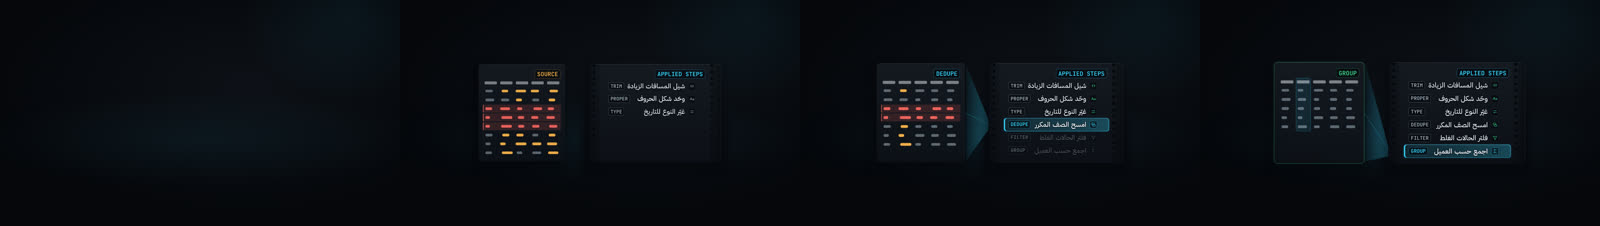
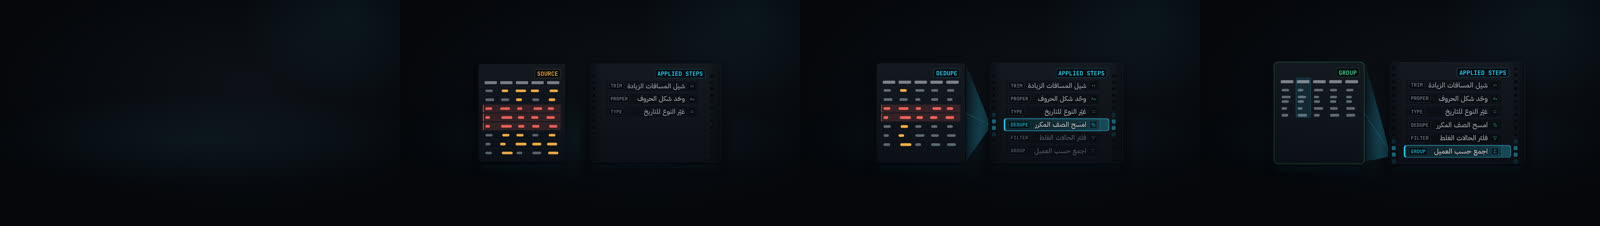
P7 dom-b: AppliedSteps round-2 polish (film frame cells, glowing sprockets, bar starts on step 0, folded group rows, ok sweep, floor reflection and motes; snap PASS det 0 qa 0, baselines pending-critic; perf lite 0.087 / standard 0.099 / hero 0.101 box s/frame; Arabic QA pass 6/6)
Claude-Session: https://claude.ai/code/session_01VrU9wxU8GmuhdhWAAHnnQ8

diff --git a/studio/src/components/AppliedSteps/AppliedSteps.tsx b/studio/src/components/AppliedSteps/AppliedSteps.tsx
@@ -96,7 +96,9 @@ export const AppliedStepsView: React.FC<DcProps<Props>> = ({props, ctx}) => {
   const gap = wide ? Math.round(box.w * 0.1) : 0;
   const prevW = wide ? box.w - stripW - gap : 0;
   const size = n <= 5 ? SIZE.sub : n <= 8 ? SIZE.body : SIZE.label;
-  const k = n <= 7 ? 1.9 : n <= 9 ? 1.65 : 1.45; // row pitch / font size (proportional, so the fit is exact)
+  // row pitch / font size: the base pitch, grown to fill the slot height when the slot is taller (proportional, so the fit stays exact)
+  const k0 = n <= 7 ? 1.9 : n <= 9 ? 1.65 : 1.45;
+  const k = Math.max(k0, Math.min(2.7, (box.h - 2 * PAD_Y - HEAD_H - 8) / (n * size)));
   const rail = 52;
   const padX = 22;
   const key = props.steps.map((s) => `${s.kind ?? ''}:${s.label}`).join('|');
@@ -123,6 +125,7 @@ export const AppliedStepsView: React.FC<DcProps<Props>> = ({props, ctx}) => {
   }
   const started = sels.length > 0 && selQ > 0;
   const stepQ = (i: number) => (sels.length === 0 ? 1 : clamp01(selY - i + 1)); // how far step i has cleaned the table
+  const selB = Math.max(0, selY); // the lit bar and the beam never leave the first frame upward (they start on step 0)
   const near = (i: number) => clamp01(1 - Math.abs(selY - i));
   const nearest = Math.round(clamp01((selY + 0.0001) / Math.max(1, n - 1)) * (n - 1));
 
@@ -151,10 +154,12 @@ export const AppliedStepsView: React.FC<DcProps<Props>> = ({props, ctx}) => {
       ci++;
     }
   });
+  // a group step merges row pairs (their height folds) instead of only highlighting a column
+  const groupI = kinds.indexOf('group');
   const rowF: number[] = []; // height factor per row (collapses when its step is applied)
   for (let r = 0; r < R; r++) {
     const o = rowOwner.get(r);
-    rowF.push(o === undefined ? 1 : 1 - ease.camera(stepQ(o)));
+    rowF.push(o !== undefined ? 1 - ease.camera(stepQ(o)) : groupI >= 0 && r % 2 === 1 ? 1 - 0.5 * ease.camera(stepQ(groupI)) : 1);
   }
   const rowY: number[] = [];
   let acc = hdrH;
@@ -164,6 +169,9 @@ export const AppliedStepsView: React.FC<DcProps<Props>> = ({props, ctx}) => {
   }
   const allQ = sels.length === 0 ? 1 : Math.min(...props.steps.map((_, i) => stepQ(i)));
   const cleanTone = clamp01((allQ - 0.0) * 1) * (started || sels.length === 0 ? 1 : 0);
+  // the "clean" payoff: an ok-green sweep crosses the table once the last step has landed (RV1 from the select anchor)
+  const lastSel = sels.length ? sels[sels.length - 1] : undefined;
+  const sweepQ = lastSel && Math.min(n - 1, lastSel.props.index as number) >= n - 1 ? progN(ctx, lastSel.at + morph, Math.round(morph * 1.6), (x) => x) : 0;
   const pvKind = !started ? 'SOURCE' : props.steps[nearest].kind ?? 'STEP';
   const cell = (c: number, r: number, rowSrc: number) => {
     const w = 0.42 + 0.46 * random(`as:w:${c}:${rowSrc}`);
@@ -182,7 +190,7 @@ export const AppliedStepsView: React.FC<DcProps<Props>> = ({props, ctx}) => {
   // ---------- geometry of the two plates (box-local) ----------
   const stripX = rtl ? box.w - stripW : 0;
   const prevX = rtl ? 0 : box.w - prevW;
-  const barTop = top + 1 + PAD_Y + HEAD_H + 4 + selY * rowH; // list container starts at +4 (the fit wrapper is nudged by 4)
+  const barTop = top + 1 + PAD_Y + HEAD_H + 4 + selB * rowH; // list container starts at +4 (the fit wrapper is nudged by 4)
   const edgeS = rtl ? stripX : stripX + stripW; // strip edge facing the table
   const edgeP = rtl ? prevX + prevW : prevX; // table edge facing the strip
   const dirSign = rtl ? -1 : 1;
@@ -190,6 +198,26 @@ export const AppliedStepsView: React.FC<DcProps<Props>> = ({props, ctx}) => {
 
   return (
     <Stage ctx={ctx}>
+      {/* depth: a faint floor reflection under each plate and a few seeded dust motes drifting in the beam's air (behind the plates) */}
+      <Svg w={box.w} h={box.h}>
+        <defs>
+          <linearGradient id={`${ctx.id}-floor`} x1={0} y1={0} x2={0} y2={1}>
+            <stop offset="0" stopColor={C.signal} stopOpacity={0.06} />
+            <stop offset="1" stopColor={C.signal} stopOpacity={0} />
+          </linearGradient>
+        </defs>
+        {[stripX, ...(wide ? [prevX] : [])].map((x, i) => (
+          <rect key={`fl${i}`} x={x + 16} y={top + plateH + 10} width={(i === 0 ? stripW : prevW) - 32} height={Math.min(46, box.h - top - plateH - 10)} rx={20} fill={`url(#${ctx.id}-floor)`} opacity={prog(ctx, ctx.at + stag(1, fps, 3), 'label')} />
+        ))}
+        {Array.from({length: fx.id === 'lite' ? 10 : 22}, (_, m) => {
+          const sp = 0.12 + 0.2 * random(`as:ms:${m}`);
+          const x = random(`as:mx:${m}`) * box.w + Math.sin(t * 0.02 * sp * 5 + m) * 10;
+          const y = box.h - ((random(`as:my:${m}`) * box.h + t * sp) % box.h);
+          const r = 1 + 2 * random(`as:mr:${m}`);
+          const inPlate = x > Math.min(stripX, prevX) && x < Math.max(stripX + stripW, prevX + prevW) && y > top && y < top + plateH;
+          return inPlate ? null : <circle key={m} cx={x} cy={y} r={r} fill={C.signal} opacity={(0.1 + 0.25 * random(`as:mo:${m}`)) * Math.sin((y / box.h) * Math.PI)} />;
+        })}
+      </Svg>
       {/* projector beam from the lit frame to the table (behind both plates) */}
       {wide && started ? (
         <Svg w={box.w} h={box.h}>
@@ -212,13 +240,19 @@ export const AppliedStepsView: React.FC<DcProps<Props>> = ({props, ctx}) => {
       <Glass style={{position: 'absolute', left: stripX, top, width: stripW, height: plateH, boxSizing: 'border-box', padding: `${PAD_Y}px ${padX + rail}px`, boxShadow: keyShadow}}>
         {[0, 1].map((side) => {
           const pitch = rowH / 2;
-          const holes = Math.ceil(plateH / pitch) + 2;
-          const off = (((selY + 1) * rowH) % pitch) + 0;
+          const holes = Math.ceil(plateH / pitch) + 3;
+          const listTop = PAD_Y + HEAD_H + 4;
+          const off = (selB * rowH) % pitch; // holes advance with the selection (two per frame cell)
+          const litC = listTop + (selB + 0.5) * rowH;
+          const hh = Math.min(22, pitch * 0.55);
           return (
             <div key={side} style={{position: 'absolute', top: 0, bottom: 0, [side ? 'right' : 'left']: 0, width: rail + padX * 0.5, overflow: 'hidden', background: `linear-gradient(${side ? 270 : 90}deg, ${C.void}${hex(0.55)}, ${C.void}${hex(0)})`, borderRight: side ? undefined : `1px solid ${C.grid}`, borderLeft: side ? `1px solid ${C.grid}` : undefined, borderRadius: side ? '0 18px 18px 0' : '18px 0 0 18px'}}>
-              {Array.from({length: holes}, (_, h) => (
-                <div key={h} style={{position: 'absolute', left: (rail * 0.5 + padX * 0.5) / 2 - 8, top: h * pitch - off - pitch, width: 16, height: Math.min(22, pitch * 0.55), borderRadius: 4, background: C.void, boxShadow: `inset 0 1px 2px ${C.void}, 0 1px 0 ${C.ink}${hex(0.1)}`, border: `1px solid ${C.grid}`}} />
-              ))}
+              {Array.from({length: holes}, (_, h) => {
+                const y = listTop + (h - 1 + 0.5) * pitch - off - hh / 2;
+                const lit = started ? clamp01(1 - Math.abs(y + hh / 2 - litC) / rowH) * selQ : 0;
+                if (y < 0 || y + hh > plateH) return null;
+                return <div key={h} style={{position: 'absolute', left: (rail * 0.5 + padX * 0.5) / 2 - 8, top: y, width: 16, height: hh, borderRadius: 4, background: lit > 0.01 ? mix(C.void, C.signal, 0.55 * lit) : C.void, boxShadow: lit > 0.01 ? `0 0 ${(fx.glowInner * lit).toFixed(1)}px ${C.signal}${hex(0.6 * lit)}` : `inset 0 1px 2px ${C.void}, 0 1px 0 ${C.ink}${hex(0.1)}`, border: `1px solid ${lit > 0.01 ? mix(C.grid, C.signal, lit) : C.grid}`}} />;
+              })}
             </div>
           );
         })}
@@ -232,9 +266,9 @@ export const AppliedStepsView: React.FC<DcProps<Props>> = ({props, ctx}) => {
                 position: 'absolute',
                 left: -8,
                 right: -8,
-                top: selY * rowH,
-                height: rowH,
-                borderRadius: 12,
+                top: selB * rowH + 3,
+                height: rowH - 6,
+                borderRadius: 10,
                 opacity: selQ,
                 background: `linear-gradient(${rtl ? 270 : 90}deg, ${C.signal}${hex(0.28)}, ${C.signal}${hex(0.1)})`,
                 border: `1px solid ${C.signal}${hex(0.8)}`,
@@ -245,11 +279,12 @@ export const AppliedStepsView: React.FC<DcProps<Props>> = ({props, ctx}) => {
           <div ref={ref} data-overflow={fit.overflow ? 1 : undefined} dir={rtl ? 'rtl' : 'ltr'} style={{display: 'flex', flexDirection: 'column', width: 'max-content', fontSize: fs, outline: fit.overflow ? `2px dashed ${C.crit}` : undefined, position: 'relative'}}>
             {rows.map(({s, i, ent, q, w}) => {
               const glyphColor = !started ? C.ink2 : w > 0.5 ? C.signal : q >= 1 ? C.ok : mix(C.ink3, C.ok, q);
-              const txt = !started || q > 0.5 || w > 0.5 ? C.ink : C.ink3;
+              const txt = !started || q > 0.5 || w > 0.5 ? C.ink : C.ink2;
               return (
                 <div
                   key={i}
                   style={{
+                    position: 'relative',
                     height: rowH,
                     boxSizing: 'border-box',
                     alignSelf: 'stretch',
@@ -257,11 +292,12 @@ export const AppliedStepsView: React.FC<DcProps<Props>> = ({props, ctx}) => {
                     alignItems: 'center',
                     gap: fs * 0.5,
                     padding: `0 ${fs * 0.45}px`,
-                    opacity: ent * (started ? lerp(0.5, 1, Math.max(q, w)) : 1),
+                    opacity: ent * (started ? lerp(0.72, 1, Math.max(q, w)) : 1),
                     transform: `translateY(${((1 - ent) * 6).toFixed(2)}px)`,
-                    borderBottom: i < n - 1 ? `1px dashed ${C.grid}` : undefined,
                   }}
                 >
+                  {/* the film frame cell: rounded border with a 3 px frame gap above and below */}
+                  <div style={{position: 'absolute', left: 0, right: 0, top: 3, bottom: 3, borderRadius: 10, border: `1px solid ${mix(C.grid, C.signal, w * 0.8)}`, background: `${C.void}${hex(0.22 + 0.1 * (1 - w))}`, boxShadow: `inset 0 1px 0 ${C.ink}${hex(0.05)}`}} />
                   <div style={{flex: 'none', width: fs * 1.1, height: fs * 1.1, borderRadius: fs * 0.28, display: 'flex', alignItems: 'center', justifyContent: 'center', background: `${C.void}${hex(0.6)}`, border: `1px solid ${w > 0.5 ? `${C.signal}${hex(0.7)}` : C.grid}`, boxShadow: rim(0.12)}}>
                     <Glyph kind={kinds[i]} size={fs * 0.72} color={glyphColor} />
                   </div>
@@ -338,6 +374,9 @@ export const AppliedStepsView: React.FC<DcProps<Props>> = ({props, ctx}) => {
                 </div>
               );
             })}
+            {sweepQ > 0 && sweepQ < 1 ? (
+              <div style={{position: 'absolute', top: 0, bottom: 0, width: tblW * 0.22, left: (rtl ? 1 - sweepQ * 1.22 : sweepQ * 1.22 - 0.22) * tblW, background: `linear-gradient(${rtl ? 270 : 90}deg, ${C.ok}${hex(0)}, ${C.ok}${hex(0.3)}, ${C.ok}${hex(0)})`, opacity: Math.sin(sweepQ * Math.PI), pointerEvents: 'none'}} />
+            ) : null}
           </div>
         </Glass>
       ) : null}

diff --git a/docs/p7/catalog_status/dom-b.md b/docs/p7/catalog_status/dom-b.md
@@ -8,7 +8,7 @@ Date: 2026-10-10. Author: motion-engineer (dom-b).
 |---|---|---|
 | DeadlockCrossing | implemented (baselines pending-critic; snap PASS det 0, perf standard 0.153 / hero 0.149 box s/frame, Arabic QA PASS) | AT-13R no longer blocks (ADR-011 RV1) |
 | PageScan | implemented (baselines pending-critic; snap PASS det 0, perf lite 0.074 / standard 0.091 / hero 0.100 box s/frame, Arabic QA PASS) | AT-13R no longer blocks (ADR-011 RV1). Grid keeps to the top 74 % of its slot; the lower quarter is the counter lane for NumberCounter (12 500 `d:6.5:3`, 3 `d:6.5:2`). |
-| AppliedSteps | implemented (baselines pending-critic; snap PASS det 0, perf lite 0.062 / standard 0.113 / hero 0.134 box s/frame, Arabic QA PASS) | AT-13R no longer blocks (ADR-011 RV1). Film-strip list (glyph per kind, sprocket rails advance with the selection) plus a table miniature that cleans per step (column steps straighten a column, dedupe/filter collapse rows); a projector beam links them. No numbers drawn (row counts belong to NumberCounter, d:6.1:2, d:6.2:1). Narrow slots (< 1.4 : 1) drop the table. |
+| AppliedSteps | implemented (round-2 polish after critic round 1: baselines pending-critic again; snap PASS det 0 qa 0, perf lite 0.087 / standard 0.099 / hero 0.101 box s/frame, Arabic QA PASS 6/6) | AT-13R no longer blocks (ADR-011 RV1). Film-strip list (glyph per kind, sprocket rails advance with the selection) plus a table miniature that cleans per step (column steps straighten a column, dedupe/filter collapse rows); a projector beam links them. No numbers drawn (row counts belong to NumberCounter, d:6.1:2, d:6.2:1). Narrow slots (< 1.4 : 1) drop the table. Round 2: frame cells with gaps, sprocket holes glow next to the lit frame, the bar starts on step 0 (never over the header), upcoming steps lifted to 0.72 opacity, group step folds row pairs, an ok sweep crosses the table when the last step lands, floor reflections and seeded dust motes. Plate size follows the slot (the scene-director sets the slot). |
 | SampleScoop | implemented (baselines pending-critic; snap PASS det 0 qa 0, perf lite 0.058 / standard 0.105 / hero 0.075 box s/frame, Arabic QA PASS) | AT-13R no longer blocks (ADR-011 RV1); D2 ruled (`reports/facts/p7_data_gaps.md` §3.3). Glass dish with a seeded population of dots (depth per dot; lite 240, standard/hero 360, decorative), a beaker that fills as the scoop lands, and a histogram of sample means that stacks up draw after draw; each scoop returns to the pool. `method` draws random / stratified bands / systematic stride through a listed order / whole clusters. Shows only the population label `5 000 طلب` (`s:S4:P11:0070`); `sample` is required by the frozen schema but never displayed and never sets a dot count (CR-009). No axis digits, no dot count. DOM + SVG only. |
 | ABSplit | deferred | AT-13R gate; data gap D1 |
 | WireTangle | deferred | AT-13R gate |
